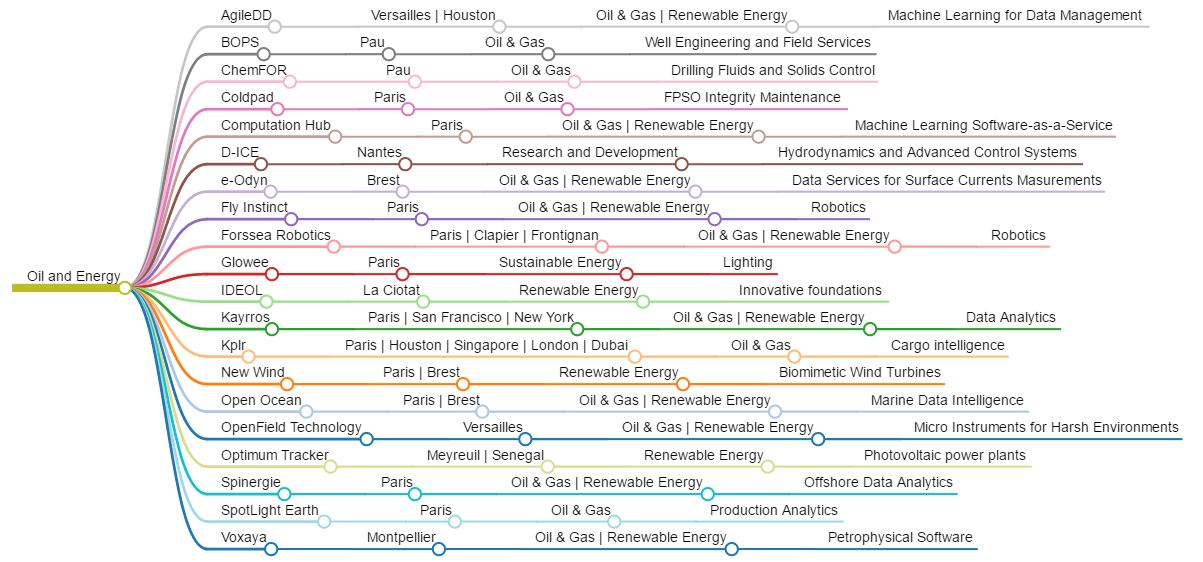
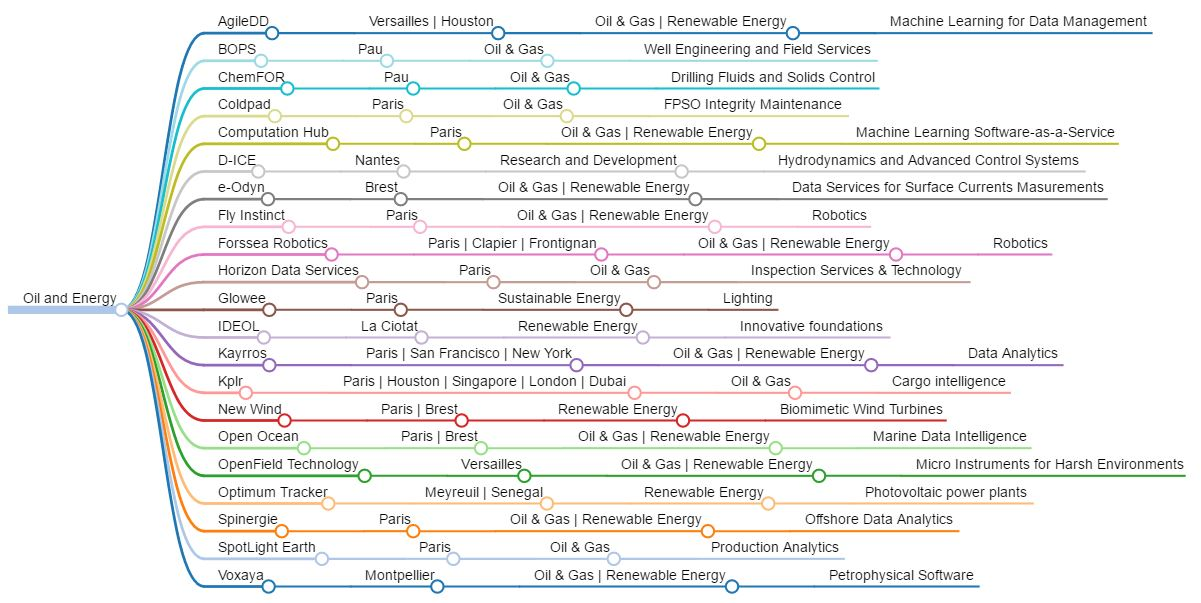
first live issue

Changed region(s): [[0.0, 0.0, 0.9858, 0.9982]]

diff --git a/README.md b/README.md
@@ -4,9 +4,9 @@
 
 This is a live list of French-based startups operating in the Oil & Gas and the Renewables sector. The objective is to have a live database of startup companies within France.
 
-It is not a definitive list and will be updated and published regularly based on communications from the community.
+This is not a definitive list and will be updated and published regularly based on communications from the community.
 
-![mindmap](https://user-images.githubusercontent.com/22255078/34044596-db7d83b2-e1a5-11e7-932e-97d16938940a.JPG)
+![mindmap](https://user-images.githubusercontent.com/22255078/34050126-0b932c3c-e1ba-11e7-97dd-b4e5c4c87a2c.JPG)
 
 ### How It Works
 

diff --git a/01-Live_list/live_list.md b/01-Live_list/live_list.md
@@ -43,7 +43,7 @@
 ## Forssea Robotics
 ### Paris | Clapier | Frontignan
 #### Oil & Gas | Renewable Energy
-##### Robotics
+##### Subsea Robotics
 
 ## Horizon Data Services
 ### Paris
